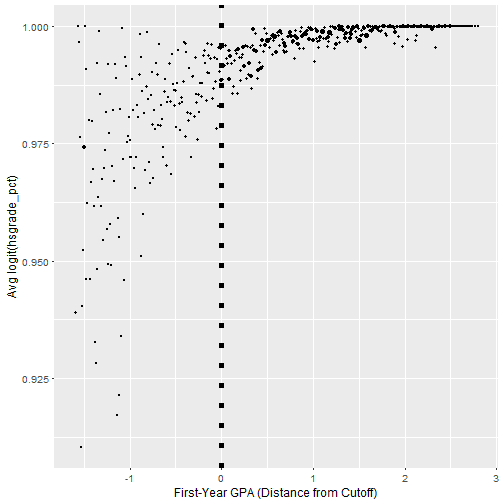
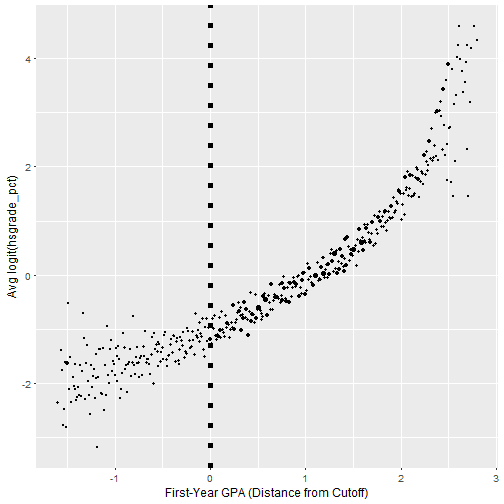
fixed bug, added mccrary plot

diff --git a/dataAnalysis.md b/dataAnalysis.md
@@ -1,7 +1,7 @@
 ---
-title: "LRD paper Appendix C, Data Analysis"
-author: "lrd authors"
-date: "30 April, 2019"
+title: "LRD paper Appendix C, Data Analysis for AP Example"
+author: "Adam C Sales & Ben B Hansen"
+date: "18 November, 2019"
 output: html_document
 ---
 
@@ -20,6 +20,59 @@ library(ggplot2)
 library(xtable)
 library(robustbase)
 library(rdd)
+```
+
+```
+## Loading required package: sandwich
+```
+
+```
+## Loading required package: lmtest
+```
+
+```
+## Loading required package: zoo
+```
+
+```
+## 
+## Attaching package: 'zoo'
+```
+
+```
+## The following objects are masked from 'package:base':
+## 
+##     as.Date, as.Date.numeric
+```
+
+```
+## Loading required package: AER
+```
+
+```
+## Loading required package: car
+```
+
+```
+## Loading required package: survival
+```
+
+```
+## 
+## Attaching package: 'survival'
+```
+
+```
+## The following object is masked from 'package:robustbase':
+## 
+##     heart
+```
+
+```
+## Loading required package: Formula
+```
+
+```r
 source("R/functions.r")
 source("R/data.r")
 source("R/ddsandwich.r")
@@ -44,7 +97,7 @@ Wfunc <- function(W)
 ```
 
 
-Load data. This routine will download and unzip the Lind et al. replication
+Load data. This routine will download and unzip the Lindo et al. replication
 material into the `extdata` subdirectory.
 
 ```r
@@ -58,7 +111,7 @@ if(!is.element('dat',ls())){
   dat <- foreign::read.dta(LSO_dta_location)
   dat$dist_from_cut <- round(dat$dist_from_cut,2)
   dat$hsgrade_pct[dat$hsgrade_pct==100]=99.5
-  dat$lhsgrade_pct=plogis(dat$hsgrade_pct)
+  dat$lhsgrade_pct=qlogis(dat$hsgrade_pct/100)
   dat$R <- dat$dist_from_cut
   dat$Z <- dat$gpalscutoff
 }
@@ -97,6 +150,18 @@ ggplot(figDat,aes(R,lhsgrade_pct,size=n))+geom_point()+geom_vline(xintercept=0,l
 ![plot of chunk hs_gpaFig](./figure/hs_gpaFig-1.png)
 
 The McCrary density test failure and recovery described in Section 4.1
+
+```r
+ggplot(figDat,aes(R,n))+
+  geom_point()+
+  geom_vline(xintercept=0,linetype='dashed',size=.5)+
+  xlab('First-Year GPA (Distance from Cutoff)')+
+  ylab('Number of Observations')+
+  scale_size_continuous(range=c(0.2,2),guide=FALSE)+
+  theme(text = element_text(size=12))
+```
+
+![plot of chunk unnamed-chunk-4](./figure/unnamed-chunk-4-1.png)
 
 ```r
 (mccrary1 <- rdd::DCdensity(dat$R,-0.005, bin=0.01,plot=FALSE) )
@@ -181,9 +246,9 @@ unlist(SHdataDriven)
 
 ```
 ##  p.value   CI.CI1   CI.CI2   CI.est       BW bal.pval       W1       W2 
-## 4.56e-24 1.83e-01 2.70e-01 2.27e-01 1.13e+00 1.51e-01 1.00e-02 1.13e+00 
+## 1.33e-19 1.68e-01 2.61e-01 2.15e-01 1.03e+00 1.54e-01 1.00e-02 1.03e+00 
 ##        n 
-## 2.39e+04
+## 2.16e+04
 ```
 
 ```r
@@ -233,7 +298,7 @@ kable(resultsTab)
 |            |Estimate |95\% CI      |$\mathcal{W}$ |$n$    |
 |:-----------|:--------|:------------|:-------------|:------|
 |main        |0.24     |(0.17, 0.31) |[0.01, 0.50)  |10,014 |
-|data_driven |0.23     |(0.18, 0.27) |[0.01, 1.13)  |23,874 |
+|data_driven |0.21     |(0.17, 0.26) |[0.01, 1.03)  |21,593 |
 |cubic       |0.24     |(0.15, 0.34) |[0.01, 0.50)  |10,014 |
 |ITT         |0.24     |(0.17, 0.31) |[0.01, 0.50)  |10,014 |
 
@@ -274,7 +339,7 @@ kable(altTab)
 |:-----------------|:--------|:------------|:-------------|:------|
 |Local Linear      |0.24     |(0.19, 0.28) |[0.00, 1.25)  |26,647 |
 |Limitless         |0.24     |(0.17, 0.31) |[0.01, 0.50)  |10,014 |
-|Local Permutation |0.10     |(0.04, 0.15) |[0.01, 0.19)  |3,766  |
+|Local Permutation |0.11     |(0.05, 0.17) |[0.01, 0.18)  |3,436  |
 
 ```r
 altTab <- cbind(Method=rownames(altTab),altTab)
@@ -457,7 +522,7 @@ sessionInfo()
 ## other attached packages:
 ##  [1] mgcv_1.8-27       nlme_3.1-131.1    rdd_0.57         
 ##  [4] Formula_1.2-1     AER_1.2-4         survival_2.41-3  
-##  [7] car_2.1-3         lmtest_0.9-34     zoo_1.7-13       
+##  [7] car_2.1-3         lmtest_0.9-37     zoo_1.7-13       
 ## [10] sandwich_2.4-0    robustbase_0.93-0 xtable_1.8-2     
 ## [13] ggplot2_2.2.1     knitr_1.22       
 ## 
